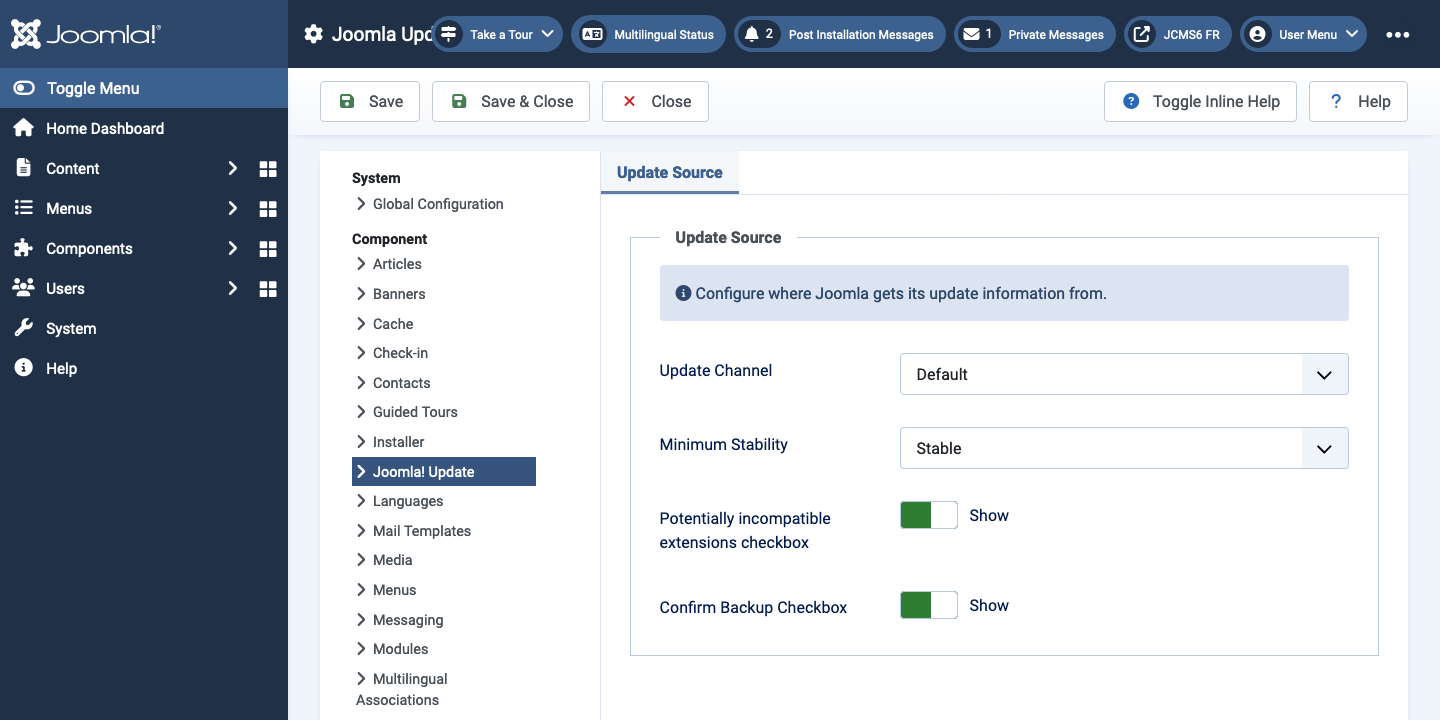
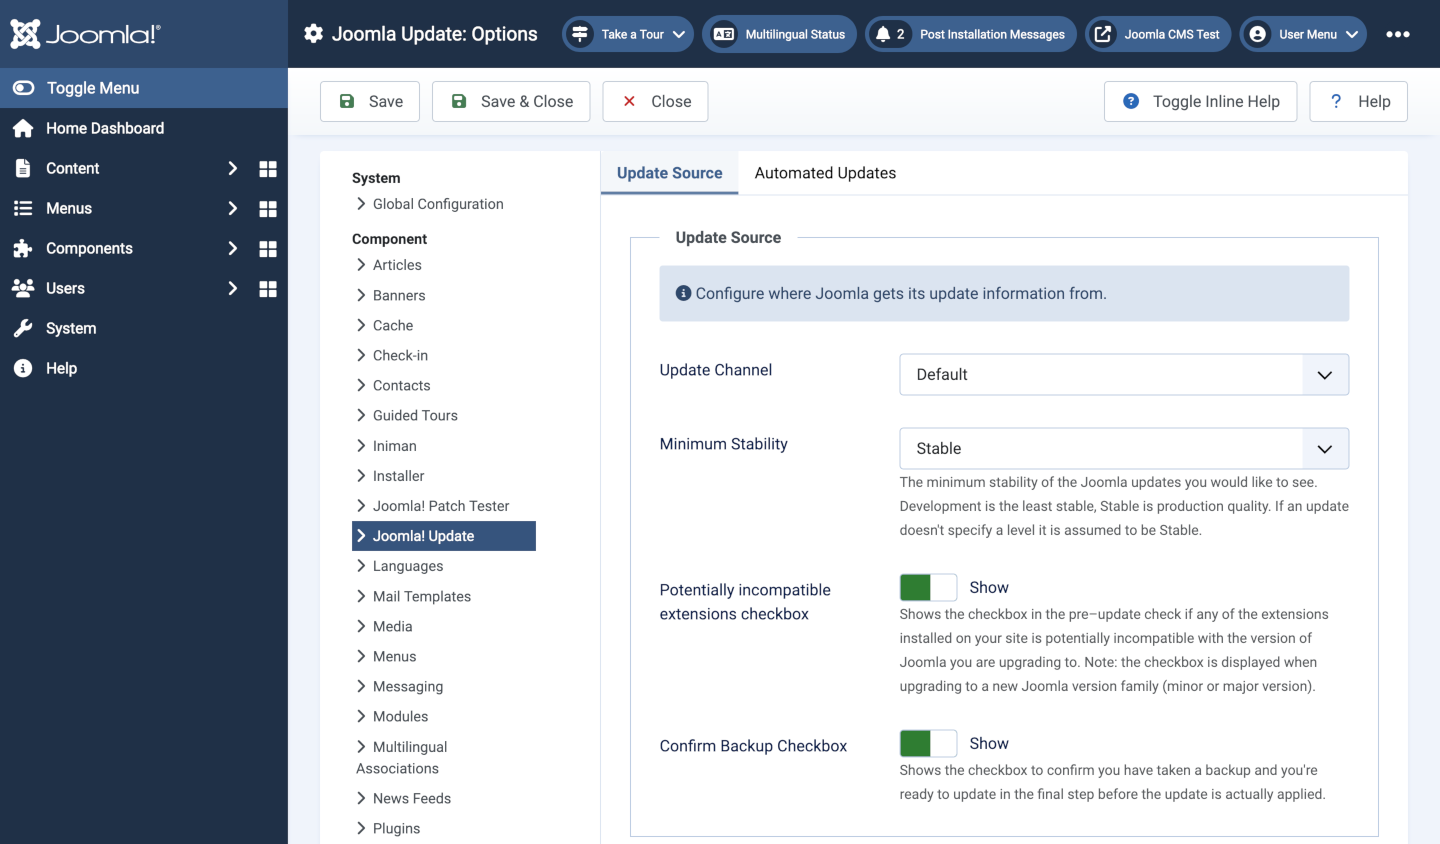
Updated articles for J6

diff --git a/articles/joomla-update/joomla-update-options.md b/articles/joomla-update/joomla-update-options.md
@@ -18,7 +18,7 @@ Some aspects of this page are covered in separate Help articles:
 
 ## Screenshot
 
-![Joomla Update Options](../../../en/images/joomla-update/joomla-update-options.png)
+![Joomla Update Options Update Source](../../../en/images/joomla-update/joomla-update-options.png)
 
 ## Form Fields
 
@@ -30,7 +30,6 @@ Some aspects of this page are covered in separate Help articles:
   - **Joomla Next** This setting causes Joomla to display a notice when a 
   new stable major version is available and all existing minor versions and
   extensions are up to date.
-  - **Testing** For Joomla Testers. More fields will appear.
   - **Custom URL** For Joomla Developers. More fields will appear.
 - **Minimum Stability** The minimum stability of the extension updates
   you would like to see. Development is the least stable, Stable is
@@ -49,3 +48,13 @@ Some aspects of this page are covered in separate Help articles:
 - **Confirm Backup Checkbox** Shows the checkbox to confirm you have taken 
   a backup and you are ready to update in the final step before the update is 
   actually applied. 
+
+### Automated Updates tab
+
+![Joomla Update Options Update Source](../../../en/images/joomla-update/joomla-update-options-automated-updates.png)
+
+- **Automated Update** When set to *Yes* your site will be updated to the latest version whenever it is available. This parameter can be configured on installation of a new Joomla site.
+- **Update Token** This is a token that identifies this site. It is created by the remote Joomla update server and cannot be changed by the user.
+- **Last Checked** The last time your site communicated with the update server.
+
+Please use the *Toggle Inline Help* button for more details.

diff --git a/articles/articles/articles-edit.md b/articles/articles/articles-edit.md
@@ -127,9 +127,7 @@ standardised layouts.
 
 #### Link A
 
-- **Link A** The URL for the first link to be displayed in a fixed
-  location in the article text. This must be a full URL, not relative.
-  For example, it normally would start with `https:`.
+- **Link A** The URL for the first link to be displayed in a fixed location in the article text. This may be a full URL to an external site or a link to a page on the same site.
 - **Link A Text** The text used for Link A. If blank, the URL will be
   displayed.
 - **URL Target Window** Sets the default value for the target for the
@@ -139,7 +137,14 @@ standardised layouts.
   - *Open in new window* Opens the link in a new browser window.
   - *Open in popup* Opens the link in a pop-up browser window (without
     full navigation controls).
-  - *Modal* Opens the link in a modal pop-up window.
+  - *Modal* Opens the link in a modal pop-up window. From Joomla 6 the link can be to an external source or to some hidden text in the current article. In the example below the local link target would be *#my-popup-target* and the link text whatever is appropriate:
+    ```html
+    <div class="hidden">
+        <div id="my-popup-target">
+            <p class="p-3">Lorem ipsum dolor sit amet, cu vis velit signiferumque, eos no possim mollis facilisi.</p>
+        </div>
+    </div>
+    ```
 
 #### Link B, Link C
 

diff --git a/articles/common-elements/list-batch-process.md b/articles/common-elements/list-batch-process.md
@@ -36,7 +36,7 @@ screenshot shows the batch dialog for Articles:
         new category and, if selected, be assigned the new language,
         access level, and tag.
     - To add **Tags**, select the desired Tags from the dropdown or
-      choose to keep the tags currently added to the original articles.
+      choose to keep the tags currently added to the original articles. From Joomla 6 this item becomes ***Add or Remove Tag***. When selected, there is an *Action to Perform* choice: *Add* or *Remove*.
 4.  When all of the settings are entered, click on Process to perform
     the changes. A message **Batch process completed successfully.**
     will show.

diff --git a/articles/modules-site/site-modules-random-image.md b/articles/modules-site/site-modules-random-image.md
@@ -38,7 +38,7 @@ Some elements of this page are covered in separate Help articles:
 
 #### Left Panel
 
-- **Image Type** Type of image PNG\|GIF\|JPG etc. (the default is JPG).
+- **Image Type** One image type, such as `png`, `jpg` or `webp`. From Joomla 6: a comma separated list of image types to be included in the selection, for example `png, jpg, jpeg, webp`. If left blank the default is `jpg`.
 - **Image Folder** Path to the image folder relative to the site URL
   (e.g. images).
 - **Link** A URL to redirect to if the image is clicked upon.
